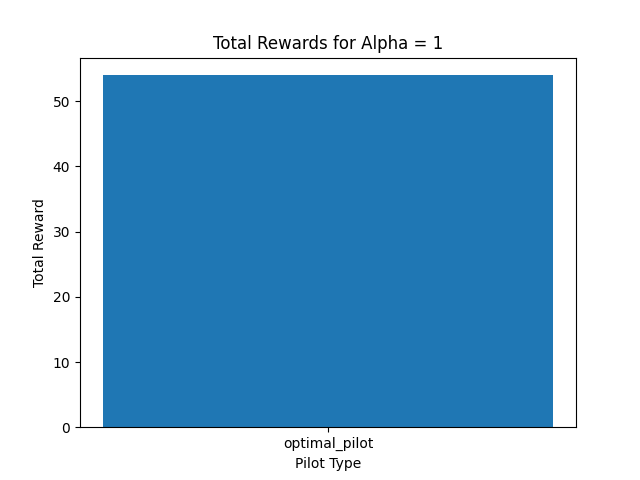
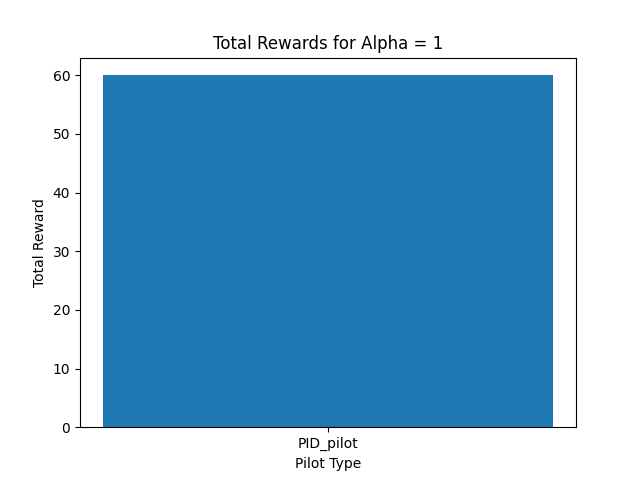
added Mlp model

diff --git a/src/haptic/__main__.py b/src/haptic/__main__.py
@@ -10,6 +10,7 @@ from gym.envs.box2d.car_racing import CarRacingShared
 from stable_baselines3.dqn_copilot.policies import (
     MultiInputPolicyCopilot,
     CnnPolicyCopilot,
+    MlpPolicyCopilot,
 )
 from stable_baselines3.dqn_copilot.dqn import DQNCopilot
 from stable_baselines3.common.callbacks import CallbackList
@@ -20,7 +21,7 @@ from haptic.callbacks.car_racing_callbacks import (
 from haptic.classic_control.pid_car_racing import pid, find_error
 
 # Env Params
-GRAYSCALE = 0  # 0 for RGB, 1 for Grayscale
+GRAYSCALE = 1  # 0 for RGB, 1 for Grayscale
 SHOW_INFO_PANEL = 1  # 0 for no info panel, 1 for info panel
 DISCRITIZED_ACTIONS = "smooth_steering"  # n_actions = 11
 NUM_TRACKS = 1  # 1 for simple track, 2 for complex track
@@ -28,7 +29,7 @@ NUM_LANES = 1  # 1 for no lane changes, 2 for lane changes
 NUM_LANES_CHANGES = 4  # DO NOT CHANGE
 MAX_TIME_OUT = 2  # number of seconds out of track before episode ends
 FRAMES_PER_STATE = 4  # number of frames to stack for each state
-
+OBS_SPACE = "vector"  # "frames" or "dict" or "vector"
 # Pilot Params
 RANDOM_ACTION_PROB = (
     0.3  # probability of taking a random action if the pilot type is noisy
@@ -43,7 +44,7 @@ MAX_EPISODE_TIMESTEPS = 500  # number of timesteps per episode
 PILOT_TYPES = [
     "PID_pilot",
 ]  # ["none_pilot","laggy_pilot", "noisy_pilot", "optimal_pilot", "human_keyboard", "PID_pilot"]
-ALPHA_SCHEDULE = [0.8]  # [0.0,..., 0.5,..., 1.0]
+ALPHA_SCHEDULE = [1]  # [0.0,..., 0.5,..., 1.0]
 
 
 # Training Params
@@ -98,7 +99,7 @@ def main():
             pilot_type=f"{pilot_type}",
             random_action_prob=RANDOM_ACTION_PROB,
             laggy_pilot_freq=LAGGY_PILOT_FREQ,
-            obs_space="frames",
+            obs_space=OBS_SPACE,
             auto_render=False,
             scenario="train",
         )
@@ -120,14 +121,14 @@ def main():
                 model.q_net_target.load_state_dict(state_dict)
             else:
                 model = DQNCopilot(
-                    CnnPolicyCopilot,
+                    MultiInputPolicyCopilot,
                     env,
                     buffer_size=BUFFER_SIZE,
                     verbose=1,
                     device="cuda",
                 )
 
-        elif policy_type == "Cnn":
+        elif policy_type == "CNN":
             if LOAD_MODEL:
                 trained_model = DQNCopilot.load(MODEL_NAME)
                 state_dict = trained_model.q_net.state_dict()
@@ -146,6 +147,7 @@ def main():
                 model.q_net.load_state_dict(state_dict)
                 model.q_net_target.load_state_dict(state_dict)
             else:
+                print(f"\n\n {env.observation_space} \n\n")
                 model = DQNCopilot(
                     CnnPolicyCopilot,
                     env,
@@ -157,6 +159,29 @@ def main():
                     exploration_initial_eps=0.05,
                     exploration_final_eps = 0.01,
                     tensorboard_log="./DQN_Copilot_tensorboard_trial/"
+                )
+
+        elif policy_type == "Mlp":
+            if LOAD_MODEL:
+                trained_model = DQNCopilot.load(MODEL_NAME)
+                state_dict = trained_model.q_net.state_dict()
+                model = DQNCopilot(
+                    MlpPolicyCopilot,
+                    env,
+                    buffer_size=BUFFER_SIZE,
+                    verbose=1,
+                    device="cuda",
+                )
+                model.q_net.load_state_dict(state_dict)
+                model.q_net_target.load_state_dict(state_dict)
+            else:
+                print(f"\n\n {env.observation_space} \n\n")
+                model = DQNCopilot(
+                    MlpPolicyCopilot,
+                    env,
+                    buffer_size=BUFFER_SIZE,
+                    verbose=1,
+                    device="cuda",
                 )
 
         save_best_model_callback = SaveBestModelCallback(
@@ -295,7 +320,7 @@ def main():
                                 break
                     env.close()
 
-        elif sys.argv[2] == "Cnn":
+        elif sys.argv[2] == "CNN":
             for alpha in ALPHA_SCHEDULE:
                 file_path = "./src/haptic/alpha.txt"
                 with open(file_path, "w") as file:
@@ -315,7 +340,7 @@ def main():
                         pilot_type=f"{pilot_type}",
                         random_action_prob=RANDOM_ACTION_PROB,
                         laggy_pilot_freq=LAGGY_PILOT_FREQ,
-                        obs_space="frames",
+                        obs_space=OBS_SPACE,
                         display=f"copilot_alpha_{alpha}_{pilot_type}",
                     )
                     env = wrappers.Monitor(
@@ -359,7 +384,7 @@ def main():
                                 break
                     env.close()
 
-        elif sys.argv[2] == "PID":
+        elif sys.argv[2] == "Mlp":
             for alpha in ALPHA_SCHEDULE:
                 file_path = "./src/haptic/alpha.txt"
                 with open(file_path, "w") as file:
@@ -379,7 +404,7 @@ def main():
                         pilot_type=f"{pilot_type}",
                         random_action_prob=RANDOM_ACTION_PROB,
                         laggy_pilot_freq=LAGGY_PILOT_FREQ,
-                        obs_space="frames",
+                        obs_space=OBS_SPACE,
                         display=f"copilot_alpha_{alpha}_{pilot_type}",
                     )
                     env = wrappers.Monitor(
@@ -422,69 +447,6 @@ def main():
                                 ] = np.mean(episode_reward_list)
                                 break
                     env.close()
-            # for alpha in ALPHA_SCHEDULE:
-            #     for pilot_type in PILOT_TYPES:
-            #         env = CarRacingShared(
-            #             allow_reverse=False,
-            #             grayscale=GRAYSCALE,
-            #             show_info_panel=SHOW_INFO_PANEL,
-            #             discretize_actions=DISCRITIZED_ACTIONS,
-            #             num_tracks=NUM_TRACKS,
-            #             num_lanes=NUM_LANES,
-            #             num_lanes_changes=NUM_LANES_CHANGES,
-            #             max_time_out=MAX_TIME_OUT,
-            #             frames_per_state=FRAMES_PER_STATE,
-            #             pilot=f"{pilot_path}",
-            #             pilot_type=f"{pilot_type}",
-            #             random_action_prob=RANDOM_ACTION_PROB,
-            #             laggy_pilot_freq=LAGGY_PILOT_FREQ,
-            #             obs_space="frames",
-            #             display=f"PID: Kp = {Kp}, Ki = {Ki}, Kd = {Kd}",
-            #         )
-            #         env = wrappers.Monitor(
-            #             env,
-            #             f"./videos/PID_Kp={Kp}_Ki={Ki}_Kd={Kd}_video/",
-            #             force=True,
-            #         )
-            #         episode_timesteps = 0
-            #         done = False
-            #         episode_reward = 0
-            #         total_timesteps = 0
-            #         total_reward = 0
-            #         observation = env.reset()
-            #         previous_error = 0
-            #         for episode in range(NO_EPISODES):
-            #             while not done:
-            #                 episode_timesteps += 1
-            #                 total_timesteps += 1
-            #                 env.render()
-            #                 error = find_error(observation, previous_error)
-            #                 steering = pid(error, previous_error, Kp, Ki, Kd)
-            #                 steering = steering
-            #                 action = [steering, 0.3, 0.05]
-            #                 observation, reward, done, info = env.step(action)
-            #                 episode_reward += reward
-            #                 total_reward += reward
-            #                 previous_error = error
-            #                 if done:
-            #                     env.reset()
-            #                     done = False
-            #                 if episode_timesteps % MAX_EPISODE_TIMESTEPS == 0:
-            #                     episode_reward_list.append(episode_reward)
-            #                     episode_reward = 0
-            #                     episode_timesteps = 0
-            #                 if (
-            #                     total_timesteps % (MAX_EPISODE_TIMESTEPS * NO_EPISODES)
-            #                     == 0
-            #                 ):
-            #                     total_rewards[f"alpha_{alpha}"][
-            #                         f"{pilot_type}"
-            #                     ] = total_reward
-            #                     episode_rewards[f"alpha_{alpha}"][
-            #                         f"{pilot_type}"
-            #                     ] = np.mean(episode_reward_list)
-            #                     break
-            #         env.close()
 
         # Create a directory for saving charts if it doesn't exist
         chart_dir = "./charts"
